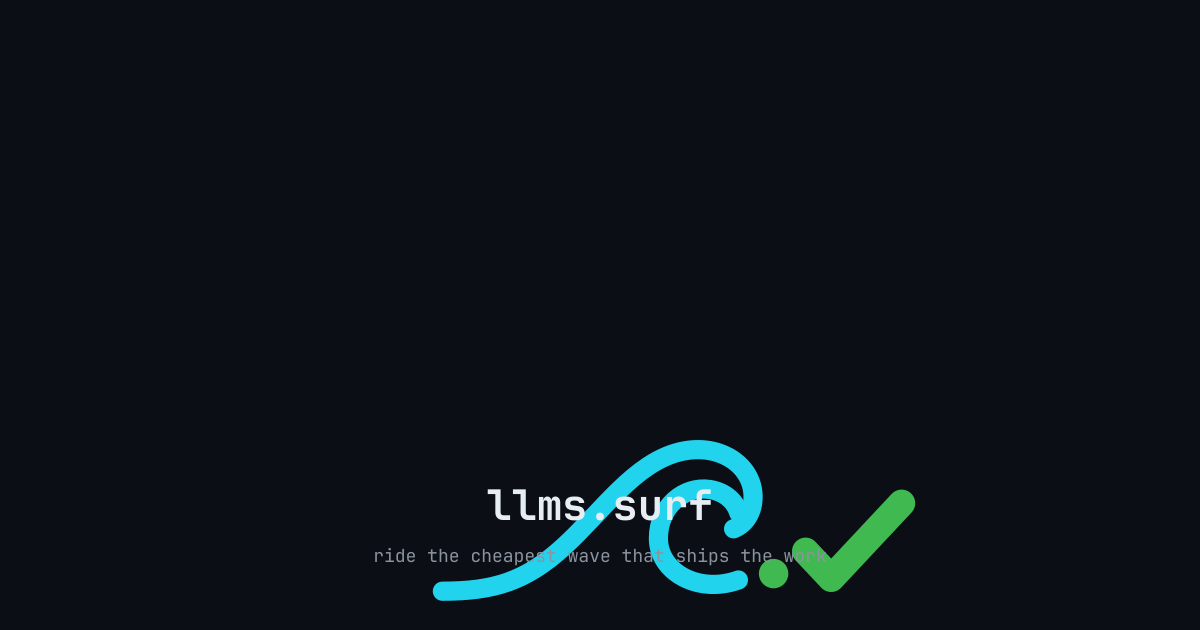
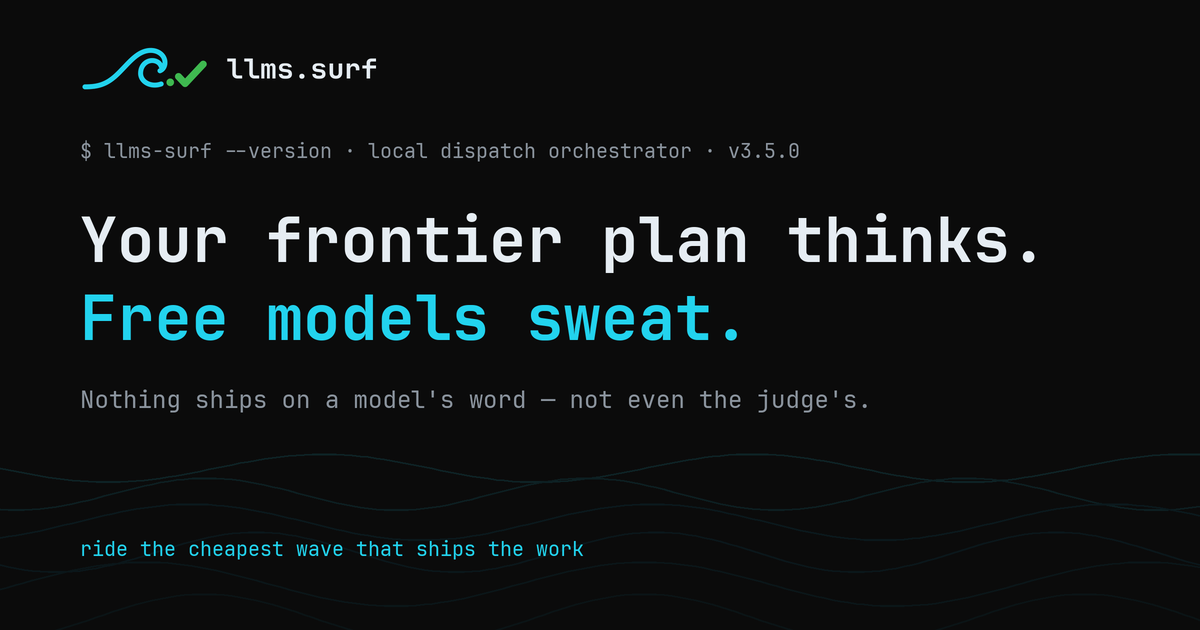
site: og hero card (1200x630) + absolute og/twitter meta

diff --git a/site/index.html b/site/index.html
@@ -13,13 +13,18 @@
 <link rel="alternate" type="text/plain" href="llms.txt" title="llms.txt — agent surface">
 <meta property="og:type" content="website">
 <meta property="og:site_name" content="LLMs.surf">
-<meta property="og:title" content="LLMs.surf — agent-first local dispatcher">
-<meta property="og:description" content="One local dispatcher and a mechanical oracle. Agents read llms.txt. Humans get the tour. Nothing ships on a model's word.">
-<meta property="og:image" content="og.png">
+<meta property="og:title" content="Your frontier plan thinks. Free models sweat.">
+<meta property="og:description" content="Nothing ships on a model's word — not even the judge's. Local dispatcher with a mechanical oracle.">
+<meta property="og:url" content="https://llms.surf/">
+<meta property="og:image" content="https://llms.surf/og.png">
+<meta property="og:image:type" content="image/png">
+<meta property="og:image:width" content="1200">
+<meta property="og:image:height" content="630">
+<meta property="og:image:alt" content="llms.surf — Your frontier plan thinks. Free models sweat.">
 <meta name="twitter:card" content="summary_large_image">
-<meta name="twitter:title" content="LLMs.surf — agent-first local dispatcher">
+<meta name="twitter:title" content="Your frontier plan thinks. Free models sweat.">
 <meta name="twitter:description" content="Nothing ships on a model's word — not even the judge's.">
-<meta name="twitter:image" content="og.png">
+<meta name="twitter:image" content="https://llms.surf/og.png">
 <script src="journey.js" data-key="llms.surf.journey"></script>
 <style>html,body{background:#0b0b0b!important;background-color:#0b0b0b!important;color:#e8e8e8!important;color-scheme:only dark;min-height:100%;min-height:100dvh;forced-color-adjust:none;-webkit-print-color-adjust:exact;print-color-adjust:exact}</style>
 <link rel="stylesheet" href="styles.css?v=202609101645">
